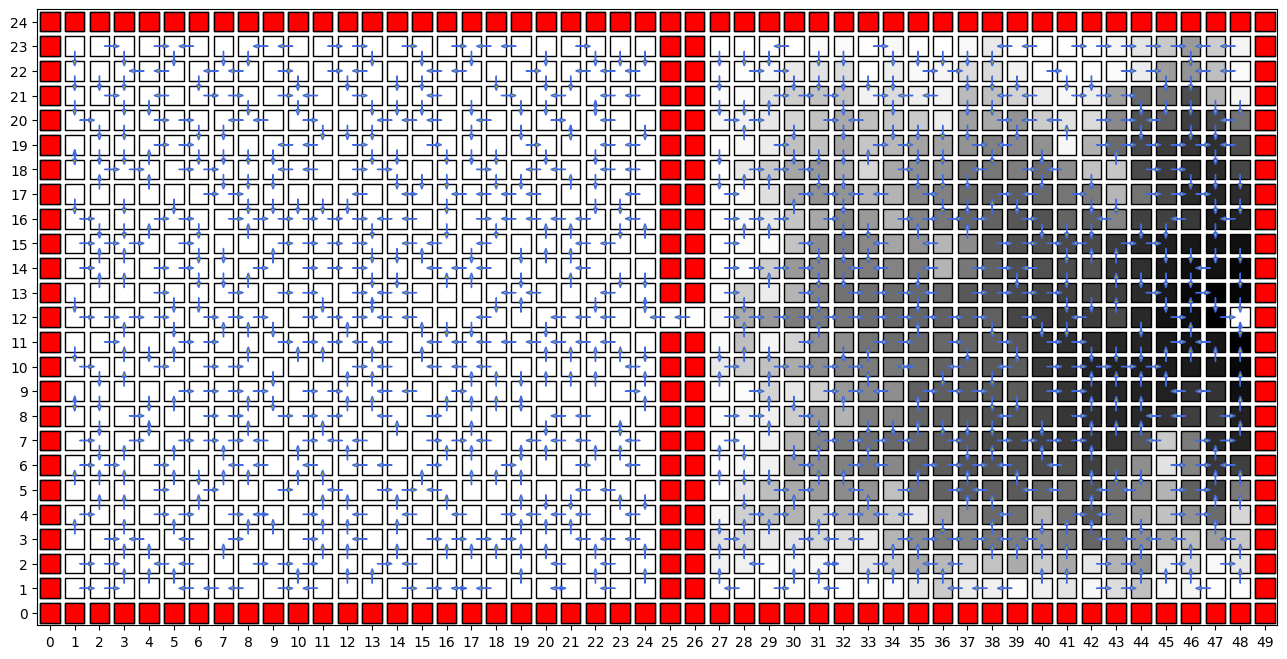
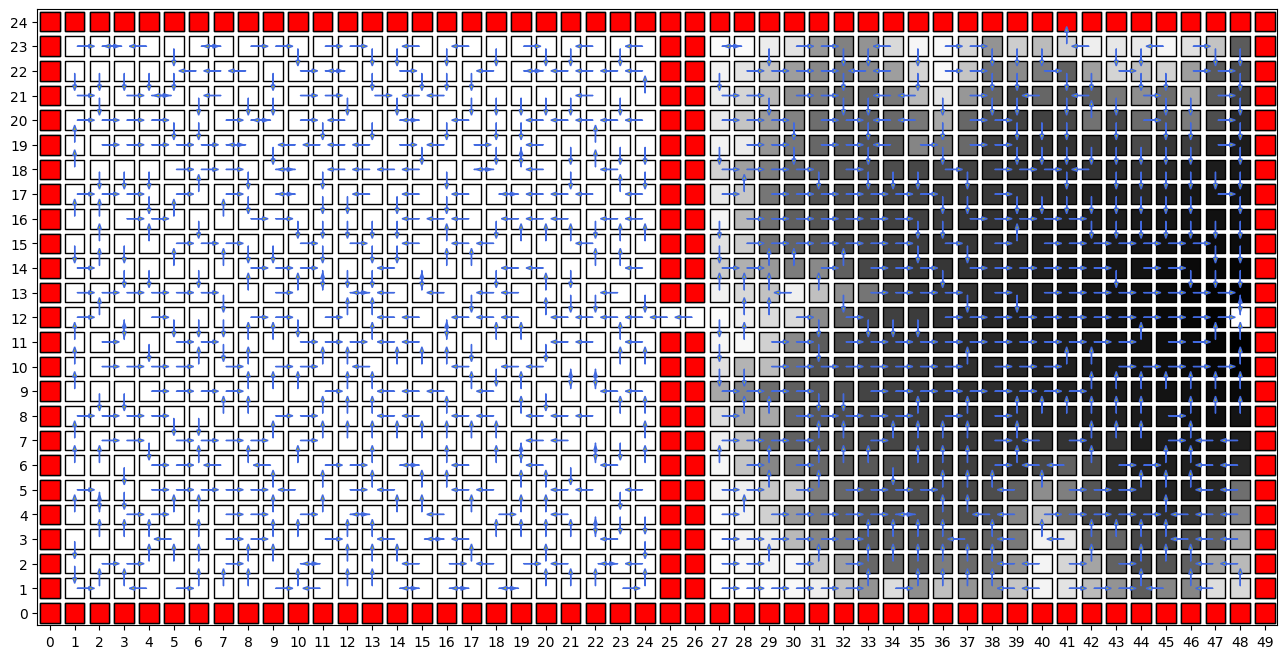
Done Q2/C

diff --git a/Q2/C/c.py b/Q2/C/c.py
@@ -1,0 +1,186 @@
+import matplotlib.pyplot as plt
+import numpy as np
+import matplotlib.markers as markers
+
+class Grid:
+    def __init__(self, width, height):
+        self.width = width
+        self.height = height
+        self.walls = set()
+        self.goal = None
+
+class Agent:
+    def __init__(self, x, y, grid):
+        self.x = x
+        self.y = y
+        self.actions = ['Up', 'Down', 'Left', 'Right']
+        self.grid = grid
+        self.state_history = [(x, y)]
+        self.nominal_action_history = []
+        self.actual_action_history = []
+        self.reward_history = []
+        self.reached_goal = False
+
+    def execute_actual_action(self, action):
+        x_dash, y_dash = None, None
+        if action == 'Up':
+            x_dash, y_dash = self.x, self.y + 1
+        elif action == 'Down':
+            x_dash, y_dash = self.x, self.y - 1
+        elif action == 'Left':
+            x_dash, y_dash = self.x - 1, self.y
+        elif action == 'Right':
+            x_dash, y_dash = self.x + 1, self.y
+        
+        if (self.x, self.y) == self.grid.goal:
+            self.reward_history.append(0)
+            self.state_history.append((self.x, self.y))
+        elif (x_dash, y_dash) in self.grid.walls:
+            self.reward_history.append(-1)
+            self.state_history.append((self.x, self.y))
+        elif (x_dash, y_dash) == self.grid.goal:
+            self.reward_history.append(100)
+            self.state_history.append((x_dash, y_dash))
+            self.x = x_dash
+            self.y = y_dash
+        else:
+            self.reward_history.append(0)
+            self.state_history.append((x_dash, y_dash))
+            self.x = x_dash
+            self.y = y_dash
+
+    def execute_nominal_action(self, action):
+        self.nominal_action_history.append(action)
+        if action == 'Up':
+            actual_action = np.random.choice(self.actions, 1, p = [0.8, 0.2/3, 0.2/3, 0.2/3])[0]
+        if action == 'Down':
+            actual_action = np.random.choice(self.actions, 1, p = [0.2/3, 0.8, 0.2/3, 0.2/3])[0]
+        if action == 'Left':
+            actual_action = np.random.choice(self.actions, 1, p = [0.2/3, 0.2/3, 0.8, 0.2/3])[0]
+        if action == 'Right':
+            actual_action = np.random.choice(self.actions, 1, p = [0.2/3, 0.2/3, 0.2/3, 0.8])[0]
+        self.execute_actual_action(actual_action)
+
+    def clear_history(self, x, y):
+        self.x = x
+        self.y = y
+        self.state_history = [(x, y)]
+        self.nominal_action_history = []
+        self.actual_action_history = []
+        self.reward_history = []
+
+def choose_eps_greedy_action(Q, agent, S, eps):
+    all_q_values = [Q[(S, a)] for a in agent.actions]
+    max_q_value = max(all_q_values)
+    pos_actions = [a for a in agent.actions if Q[(S, a)] == max_q_value]
+    best_action = np.random.choice(pos_actions, 1)[0]
+    weights = [eps/len(agent.actions) if a != best_action else 1 - eps + eps/len(agent.actions) for a in agent.actions]
+
+    return np.random.choice(agent.actions, 1, p = weights)[0]
+
+# Simulation begins here.
+grid_world = Grid(50, 25)
+grid_world.goal = (48, 12)          # defining the goal-state.
+
+# Adding walls to grid.
+for i in range(50):
+    grid_world.walls.add((i, 0))
+    grid_world.walls.add((i, 24))
+for i in range(1, 24):
+    grid_world.walls.add((0, i))
+    grid_world.walls.add((49, i))
+for i in range(1, 12):
+    grid_world.walls.add((25, i))
+    grid_world.walls.add((26, i))
+for i in range(13, 24):
+    grid_world.walls.add((25, i))
+    grid_world.walls.add((26, i))
+
+# Random start
+def random_start ():
+    x, y = np.random.randint(0, 50), np.random.randint(0, 25)
+    while (x, y) in grid_world.walls:
+        x, y = np.random.randint(0, 50), np.random.randint(0, 25)
+    return x, y
+
+Q = dict()
+
+for i in range(50):
+    for j in range(25):
+        if (i, j) not in grid_world.walls:
+            for action in ['Up', 'Down', 'Left', 'Right']:
+                Q[((i, j), action)] = 0
+
+num_episodes = 4000
+steps_in_episodes = 1000
+eps = 0.005
+alpha = 0.25
+discount = 0.99
+mobile_agent = Agent(1, 1, grid_world)
+
+for i in range(num_episodes):
+    mobile_agent.clear_history(*random_start())
+    S = (mobile_agent.x, mobile_agent.y)
+    for j in range(steps_in_episodes):
+        A = choose_eps_greedy_action(Q, mobile_agent, S, eps)
+        mobile_agent.execute_nominal_action(A)
+        S_dash, R = mobile_agent.state_history[-1], mobile_agent.reward_history[-1]
+        Q[(S, A)] = Q[(S, A)] + alpha * (R + discount * max([Q[(S_dash, a)] for a in mobile_agent.actions]) - Q[(S, A)])
+        S = S_dash
+
+        if S == grid_world.goal:
+            # print("broke :(")
+            break
+
+Pi = [[None for j in range(25)] for i in range(50)]
+V = np.zeros((50, 25))
+
+for i in range(50):
+    for j in range(25):
+        if (i, j) not in grid_world.walls:
+            best_value = max([Q[((i, j), a)] for a in mobile_agent.actions])
+            pos_policy = [(Q[((i, j), a)], a) for a in mobile_agent.actions if Q[((i, j), a)] == best_value]
+            (value, action) = pos_policy[np.random.choice(len(pos_policy), 1)[0]]
+            V[i, j] = value
+            Pi[i][j] = action
+
+fig = plt.figure(figsize=(16, 8))
+ax = fig.gca()
+ax.set_xticks(np.arange(0, 51, 1))
+ax.set_yticks(np.arange(0, 26, 1))
+ax.set_xlim([-0.5, 49.5])
+ax.set_ylim([-0.5, 24.5])
+marker = markers.MarkerStyle(marker='s')
+P = np.arange(25)
+Q = np.arange(50)
+all_points = np.dstack(np.meshgrid(P, Q)).reshape(-1, 2)
+X = V.reshape(-1, 1)
+all_walls = list(grid_world.walls)
+wall_color = ['r']*len(all_walls)
+# print(X)
+# print(all_points)
+scat1 = plt.scatter(all_points[:, 1], all_points[:, 0], s=200, c=X[:, 0], cmap='Greys', edgecolors='k', marker=marker)
+scat2 = plt.scatter([x[0] for x in all_walls], [x[1] for x in all_walls], s=200, c=wall_color, edgecolors='k', marker=marker)
+
+def arrow_coordinates(i, j, action):
+    if action == 'Up':
+        return i, j + 0.1, 0, 0.7
+    elif action == 'Down':
+        return i, j - 0.1, 0, -0.7
+    elif action == 'Left':
+        return i - 0.1, j, -0.7, 0
+    elif action == 'Right':
+        return i + 0.1, j, 0.7, 0
+
+all_arrows = []
+for i in range(50):
+    for j in range(25):
+        if Pi[i][j] != None:
+            x, y, dx, dy = arrow_coordinates(i, j, Pi[i][j])
+            all_arrows.append((x, y, dx, dy))
+
+for i in range(len(all_arrows)):
+    plt.arrow(all_arrows[i][0], all_arrows[i][1], all_arrows[i][2], all_arrows[i][3], length_includes_head=True, head_width=0.15, edgecolor='royalblue', facecolor='y')
+
+plt.savefig('b_' + str(eps) + '.png', bbox_inches='tight')
+plt.show()
